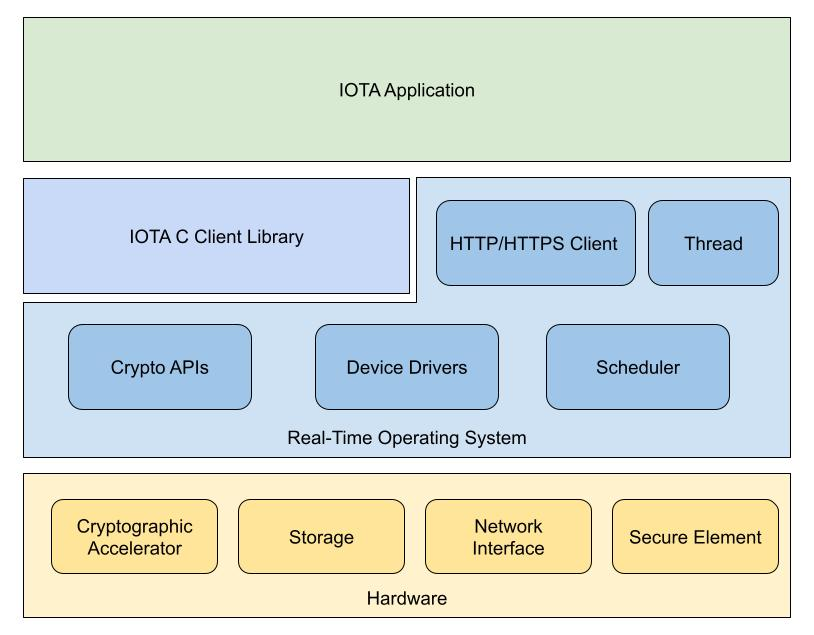
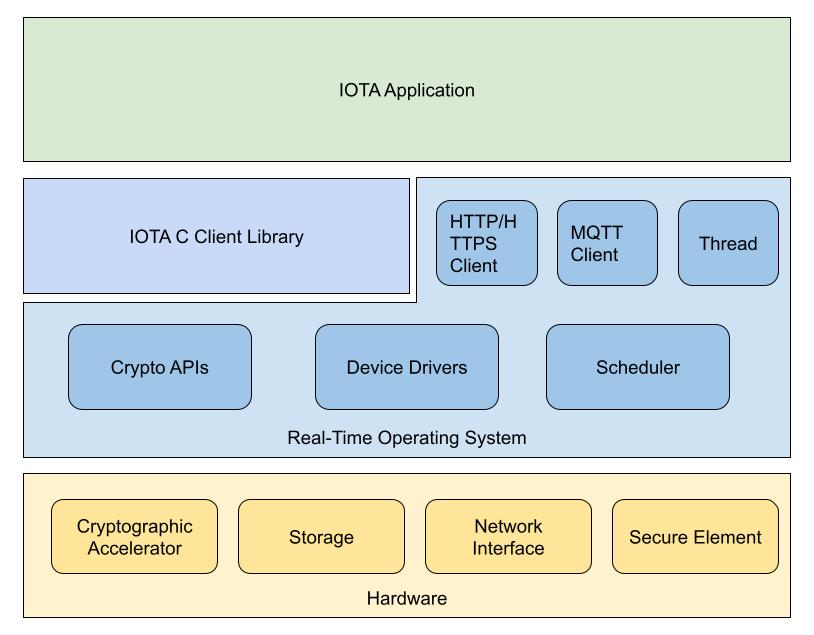
Doc - added Node events and updated block diagrams

Changed region(s): [[0.5528, 0.2992, 0.9214, 0.4488]]

diff --git a/src/client/api/events/node_event.h b/src/client/api/events/node_event.h
@@ -5,7 +5,7 @@
 #define __NODE_EVENT_H__
 
 /**
- * @brief Abstract layer of event api's for IOTA client
+ * @brief The Abstract layer of the node event API.
  *
  */
 
@@ -14,33 +14,33 @@
 #include <stdio.h>
 
 /**
- * @brief Event ids for handling MQTT events
+ * @brief Event IDs for handling IOTA Node events
  *
  */
 typedef enum {
   NODE_EVENT_ANY = -1,
   NODE_EVENT_ERROR = 0,    /*!< on error event, additional context: connection return code*/
-  NODE_EVENT_CONNECTED,    /*!< connected event */
-  NODE_EVENT_DISCONNECTED, /*!< disconnected event */
-  NODE_EVENT_SUBSCRIBED,   /*!< subscribed event, additional context: msg_id */
-  NODE_EVENT_UNSUBSCRIBED, /*!< unsubscribed event */
-  NODE_EVENT_PUBLISHED,    /*!< published event, additional context:  msg_id */
+  NODE_EVENT_CONNECTED,    /*!< connected to a node broker */
+  NODE_EVENT_DISCONNECTED, /*!< disconnected from the node broker */
+  NODE_EVENT_SUBSCRIBED,   /*!< subscribed an event, additional context: msg_id */
+  NODE_EVENT_UNSUBSCRIBED, /*!< unsubscribed an event */
+  NODE_EVENT_PUBLISHED,    /*!< published an event, additional context:  msg_id */
   NODE_EVENT_DATA,         /*!< data event, additional context:
-                                - msg_id               message id
-                                - topic                pointer to the received topic
-                                - topic_len            length of the topic
-                                - data                 pointer to the received data
-                                - data_len             length of the data for this event
-                                - retain               retain flag of the message */
+                                - msg_id               The message id
+                                - topic                An pointer to the received topic
+                                - topic_len            The length of the topic
+                                - data                 An pointer to the received data
+                                - data_len             The length of the data for this event
+                                - retain               The retain flag of the message */
 } event_client_event_id_t;
 
 /**
- * @brief Event MQTT client config paramters
+ * @brief The event client configuration
  *
  */
 typedef struct {
-  char const *host;       ///< MQTT host url
-  uint16_t port;          ///< MQTT port to connect, usually it is 1883
+  char const *host;       ///< The broker host url
+  uint16_t port;          ///< The broker port to connect with, usually it is 1883
   const char *client_id;  ///< The client id to use, or NULL if a random client id should be generated
   uint8_t keepalive;      ///< The number of seconds after which the broker should send a PING message to the client
   const char *username;   ///< The username string, or NULL for no username authentication
@@ -54,69 +54,69 @@ typedef struct {
 typedef struct event_client *event_client_handle_t;
 
 /**
- * @brief Event configuration structure
+ * @brief Event response object
  *
  */
 typedef struct {
-  event_client_event_id_t event_id; /*!< MQTT event type */
-  event_client_handle_t client;     /*!< MQTT client handle for this event */
-  void *data;                       /*!< Data associated with this event */
-  int data_len;                     /*!< Length of the data for this event */
-  char *topic;                      /*!< Topic associated with this event */
-  int topic_len;                    /*!< Length of the topic associated with this event */
-  int msg_id;                       /*!< MQTT messaged id of message */
-  bool retain;                      /*!< Retained flag of the message associated with this event */
-  int qos;                          /*!< qos of the messages associated with this event */
+  event_client_event_id_t event_id; /*!< An event type */
+  event_client_handle_t client;     /*!< The event handler of this event */
+  void *data;                       /*!< The data associated with this event */
+  int data_len;                     /*!< The length of the data for this event */
+  char *topic;                      /*!< The topic associated with this event */
+  int topic_len;                    /*!< The length of the topic associated with this event */
+  int msg_id;                       /*!< The message ID */
+  bool retain;                      /*!< The retained flag of the message associated with this event */
+  int qos;                          /*!< The QoS of the message associated with this event */
 } event_client_event_t;
 
 /**
- * @brief Initialize events api MQTT library
+ * @brief Initialize event service
  *
  * @param[in] config MQTT client config paramters
  */
 event_client_handle_t event_init(event_client_config_t *config);
 
 /**
- * @brief Set event callback function
+ * @brief Set the event callback handler
  *
- * @param[in] client Event client instance
- * @param[in] callback Event callback function pointer
+ * @param[in] client The event client instance
+ * @param[in] callback An event callback handler
  */
 int event_register_cb(event_client_handle_t client, void (*callback)(event_client_event_t *event));
 
 /**
- * @brief Subscribe to a MQTT topic
+ * @brief Subscribe an event
  *
- * @param[in] client Event client instance
+ * @param[in] client The event client instance
  * @param[in] mid if not NULL, mid will be set as the message id for the subscription topic
- * @param[in] topic MQTT topic to subscribe
+ * @param[in] topic A node topic to subscribe
  * @param[in] qos QoS level to be used with the topic
  * @return 0 if Success
  */
 int event_subscribe(event_client_handle_t client, int *mid, char *topic, int qos);
 
 /**
- * @brief Unubscribe a MQTT topic
+ * @brief Unsubscribe an event
  *
- * @param[in] client Event client instance
+ * @param[in] client The event client instance
  * @param[in] mid if not NULL, mid will be set as the message id for the subscription topic
- * @param[in] topic MQTT topic to subscribe
+ * @param[in] topic A node topic to subscribe
  * @return 0 if Success
  */
 int event_unsubscribe(event_client_handle_t client, int *mid, char *topic);
 
 /**
- * @brief Connect to MQTT broker with the given config
+ * @brief Connect to Node broker with the given config
  *
- * @param[in] client Event client instance
+ * @param[in] client The event client instance
  * @return 0 if Success
  */
 int event_start(event_client_handle_t client);
 
 /**
- * @brief Disconnect from the MQTT broker
+ * @brief Disconnect from the Node broker
  *
- * @param[in] client Event client instance
+ * @param[in] client The event client instance
  * @return 0 if Success
  */
 int event_stop(event_client_handle_t client);
@@ -124,7 +124,7 @@ int event_stop(event_client_handle_t client);
 /**
  * @brief Stop and destroy event instance
  *
- * @param[in] client Event client instance
+ * @param[in] client The event client instance
  * @return 0 if Success
  */
 int event_destroy(event_client_handle_t client);

diff --git a/src/client/network/mqtt/mqtt.h b/src/client/network/mqtt/mqtt.h
@@ -5,7 +5,7 @@
 #define __CLIENT_NETWORK_MQTT_H__
 
 /**
- * @brief Abstract layer of MQTT client for IOTA client
+ * @brief The Abstract layer of MQTT client library.
  *
  */
 
@@ -14,24 +14,24 @@
 #include <stdio.h>
 
 /**
- * @brief Event ids for handling MQTT events
+ * @brief Event IDs for handling MQTT events
  *
  */
 typedef enum {
   MQTT_ANY = -1,
   MQTT_ERROR = 0,    /*!< on error event, additional context: connection return code*/
-  MQTT_CONNECTED,    /*!< connected event */
-  MQTT_DISCONNECTED, /*!< disconnected event */
-  MQTT_SUBSCRIBED,   /*!< subscribed event, additional context: msg_id */
-  MQTT_UNSUBSCRIBED, /*!< unsubscribed event */
-  MQTT_PUBLISHED,    /*!< published event, additional context:  msg_id */
+  MQTT_CONNECTED,    /*!< connected to the broker */
+  MQTT_DISCONNECTED, /*!< disconnected from the broker */
+  MQTT_SUBSCRIBED,   /*!< subscribed to a topic, additional context: msg_id */
+  MQTT_UNSUBSCRIBED, /*!< unsubscribed to a topic */
+  MQTT_PUBLISHED,    /*!< published a topic, additional context:  msg_id */
   MQTT_DATA,         /*!< data event, additional context:
-                                - msg_id               message id
-                                - topic                pointer to the received topic
-                                - topic_len            length of the topic
-                                - data                 pointer to the received data
-                                - data_len             length of the data for this event
-                                - retain               retain flag of the message */
+                                - msg_id               A message id
+                                - topic                An pointer to the received topic
+                                - topic_len            The length of the topic
+                                - data                 An pointer to the received data
+                                - data_len             The length of the data for this event
+                                - retain               The retain flag of the message */
 } mqtt_event_id_t;
 
 /**
@@ -40,13 +40,13 @@ typedef enum {
  */
 typedef struct {
   mqtt_event_id_t event_id; /*!< MQTT event type */
-  void *data;               /*!< Data associated with this event */
-  int data_len;             /*!< Length of the data for this event */
-  char *topic;              /*!< Topic associated with this event */
-  int topic_len;            /*!< Length of the topic associated with this event */
-  int msg_id;               /*!< MQTT messaged id of message */
-  bool retain;              /*!< Retained flag of the message associated with this event */
-  int qos;                  /*!< qos of the messages associated with this event */
+  void *data;               /*!< The data associated with this event */
+  int data_len;             /*!< The length of the data for this event */
+  char *topic;              /*!< The topic associated with this event */
+  int topic_len;            /*!< The length of the topic associated with this event */
+  int msg_id;               /*!< The message id*/
+  bool retain;              /*!< The retained flag of the message associated with this event */
+  int qos;                  /*!< The QoS of this event */
 } mqtt_client_event_t;
 
 /**

diff --git a/docs/api/events.md b/docs/api/events.md
@@ -1,0 +1,82 @@
+# Event API Reference
+
+The Event API is event subscribers based on [RFC: Node Event API](https://github.com/iotaledger/protocol-rfcs/pull/33), it provides an easy way to subscribe node events via MQTT protocol.
+
+## Event Client Configuration
+
+```{eval-rst}
+.. doxygenstruct:: event_client_config_t
+  :members:
+```
+
+## Event IDs
+
+```{eval-rst}
+.. doxygenenum:: event_client_event_id_t
+```
+
+## Initialize Event Service
+
+```{eval-rst}
+.. doxygenfunction:: event_init
+```
+
+## Register Event Callback Handler
+
+```{eval-rst}
+.. doxygenfunction:: event_register_cb
+```
+
+## Subscribe To A Topic
+
+```{eval-rst}
+.. doxygenfunction:: event_subscribe
+```
+
+## Unsubscribe To A Topic
+
+```{eval-rst}
+.. doxygenfunction:: event_unsubscribe
+```
+
+## Start Event Service
+
+```{eval-rst}
+.. doxygenfunction:: event_start
+```
+
+## Stop Event Service
+
+```{eval-rst}
+.. doxygenfunction:: event_stop
+```
+
+## Destroy Event Service
+
+```{eval-rst}
+.. doxygenfunction:: event_destroy
+```
+
+## IOTA Node Events
+
+### Confirmed Milestones
+
+```{eval-rst}
+.. doxygenstruct:: milestone_confirmed_t
+  :members:
+```
+
+```{eval-rst}
+.. doxygenfunction:: parse_milestones_confirmed
+```
+
+### The Latest Milestone
+
+```{eval-rst}
+.. doxygenstruct:: milestone_latest_t
+  :members:
+```
+
+```{eval-rst}
+.. doxygenfunction:: parse_milestone_latest
+```

diff --git a/docs/client_intro.md b/docs/client_intro.md
@@ -12,7 +12,7 @@ Software Development Kits(SDK) for MCUs:
 The C Client library consists 4 abstraction layers:
 * Crypto - provide cryptographic functions
 * Core - implement components include address/message/UTXO...
-* Client - implement node REST APIs. (optional)
+* Client - implement node REST APIs and Event APIs. (optional)
 * Wallet - simple wallet functions. (optional)
 
 As a client application, Client and Wallet modules could be an option as needed. For instance, the application can implement its own wallet logic or it uses the Core module to compose messages then send messages through another interface without the Client module.
@@ -23,6 +23,7 @@ The C Client library relies on some functionalities from the operating system AP
 * HTTP/HTTPS Client
 * JSON parser
 * Crypto library
+* MQTT Client
 
 ## IOTA Application Architecture
 
@@ -34,5 +35,6 @@ With the client library, you can interact with IOTA Tangle to:
 * Query messages
 * Query the node status
 * Generate addresses
+* Subscribe node events
 
 ![](img/client_application_architecture.jpg)

diff --git a/docs/api/restful.md b/docs/api/restful.md
@@ -1,6 +1,6 @@
-# Client API Reference
+# RESTful API Reference
 
-The Client API is low level client implementation based on [RFC: REST Node API](https://github.com/iotaledger/protocol-rfcs/pull/27), it enables communications with the Node on the Tangle.
+The RESTful API is low level client implementation based on [RFC: REST Node API](https://github.com/iotaledger/protocol-rfcs/pull/27), it enables communications with the Node on the Tangle.
 
 ## [Endpoint Setting](https://github.com/iotaledger/iota.c/blob/dev/src/client/client_service.h)
 

diff --git a/docs/api/wallet.md b/docs/api/wallet.md
@@ -1,6 +1,6 @@
 # Wallet API Reference
 
-This is reference implementation as wallet APIs. Users are able to implement wallet application based on [Client APIs](./client.md#client-api-reference).
+This is reference implementation as wallet APIs. Users are able to implement wallet application based on [RESTful APIs](./restful.md#restful-api-reference).
 
 ## Setting
 

diff --git a/docs/index.md b/docs/index.md
@@ -25,7 +25,8 @@ maxdepth: 1
 caption: API Reference
 ---
 api/wallet.md
-api/client.rst
+api/events.md
+api/restful.md
 api/core.md
 api/crypto.md
 ```
